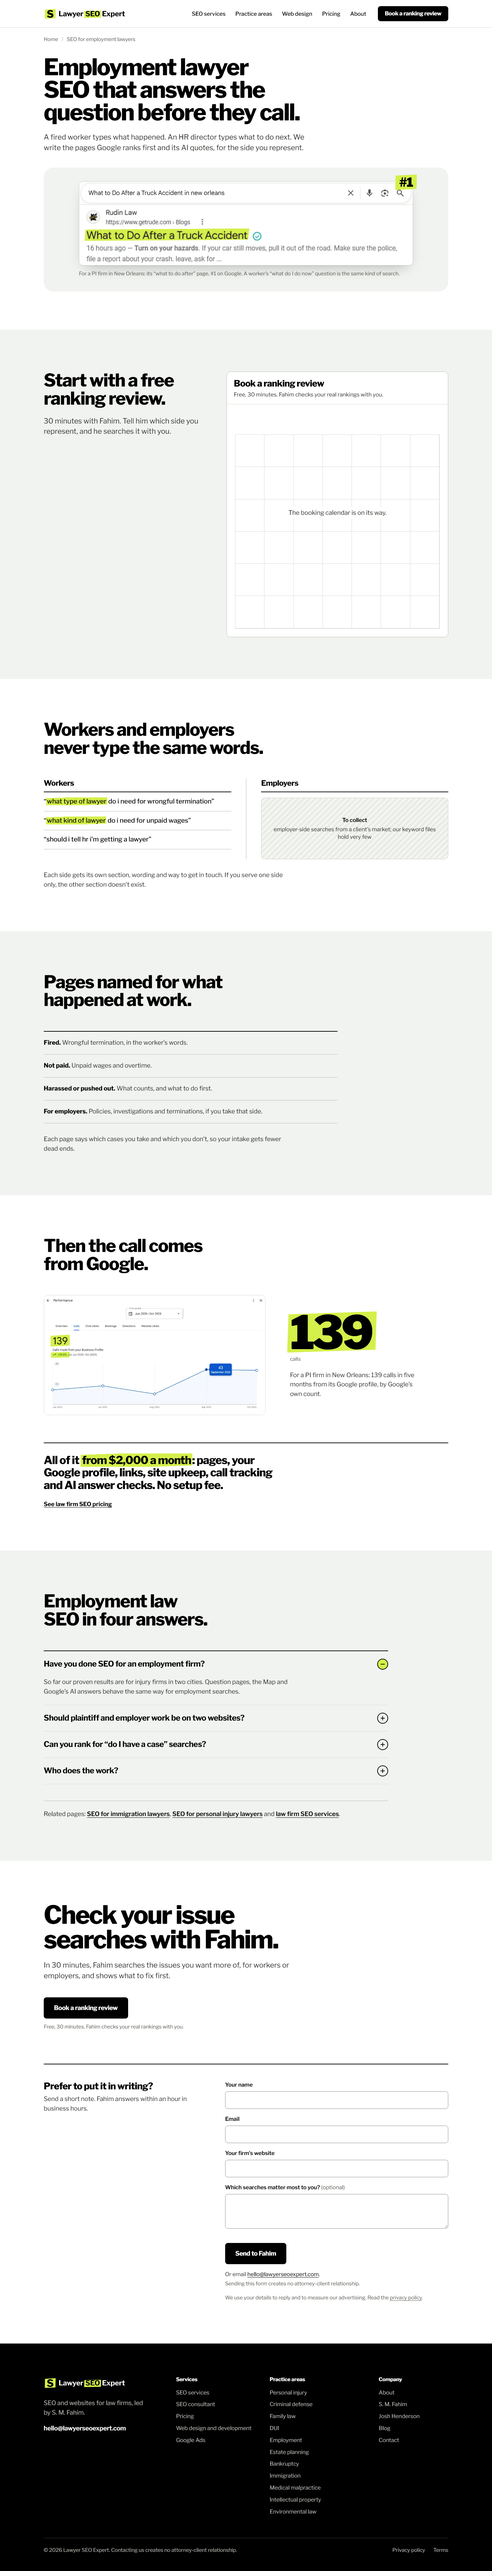
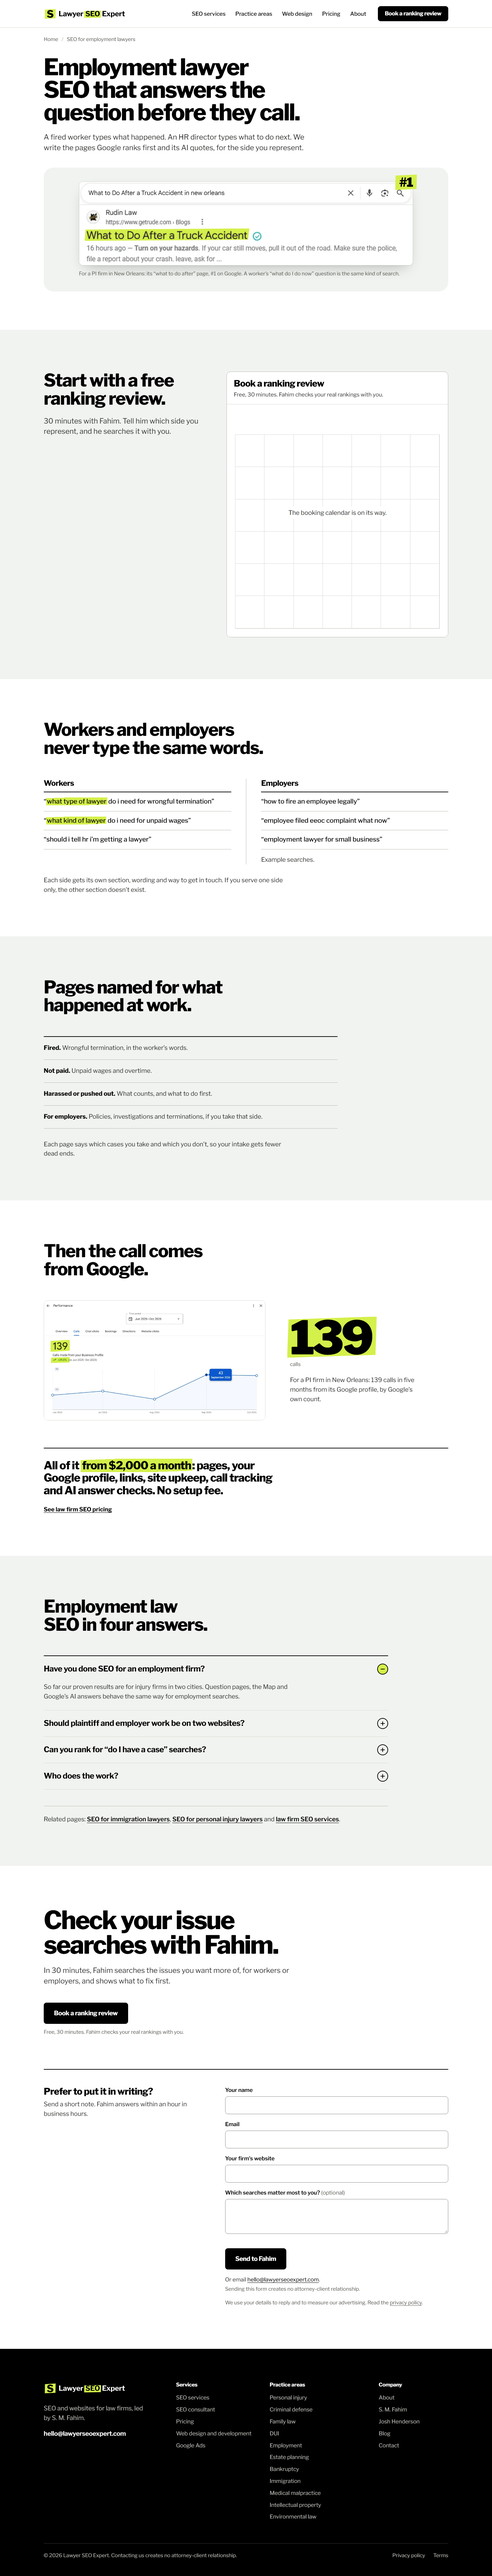
Employment: example employer searches in place of the placeholder
Three plain example searches, captioned "Example searches.", no volumes (judge ruling). MANUAL-REVIEW notes that
real employer-side searches from a client market should replace them. Page re-shot at 1440 and 390.

Claude-Session: https://claude.ai/code/session_01BoWcXNnQPrGs4yfsdbaECn

diff --git a/docs/MANUAL-REVIEW.md b/docs/MANUAL-REVIEW.md
@@ -8,3 +8,4 @@
 - `hello@lawyerseoexpert.com` must exist as a cPanel mailbox or forwarder before the site shows it.
 - The `/category/*` pages should redirect to `/blog/` once the blog exists (commented out in `redirects.ts`).
 - Should `/about/` redirect to `/about/sm-fahim/` if no real About page is written?
+- `/seo-for-employment-lawyers/`: the Employers column shows three example searches ("how to fire an employee legally", "employee filed eeoc complaint what now", "employment lawyer for small business"), captioned "Example searches.", with no volumes. Replace them with real employer-side searches from a client's market once one is collected.
